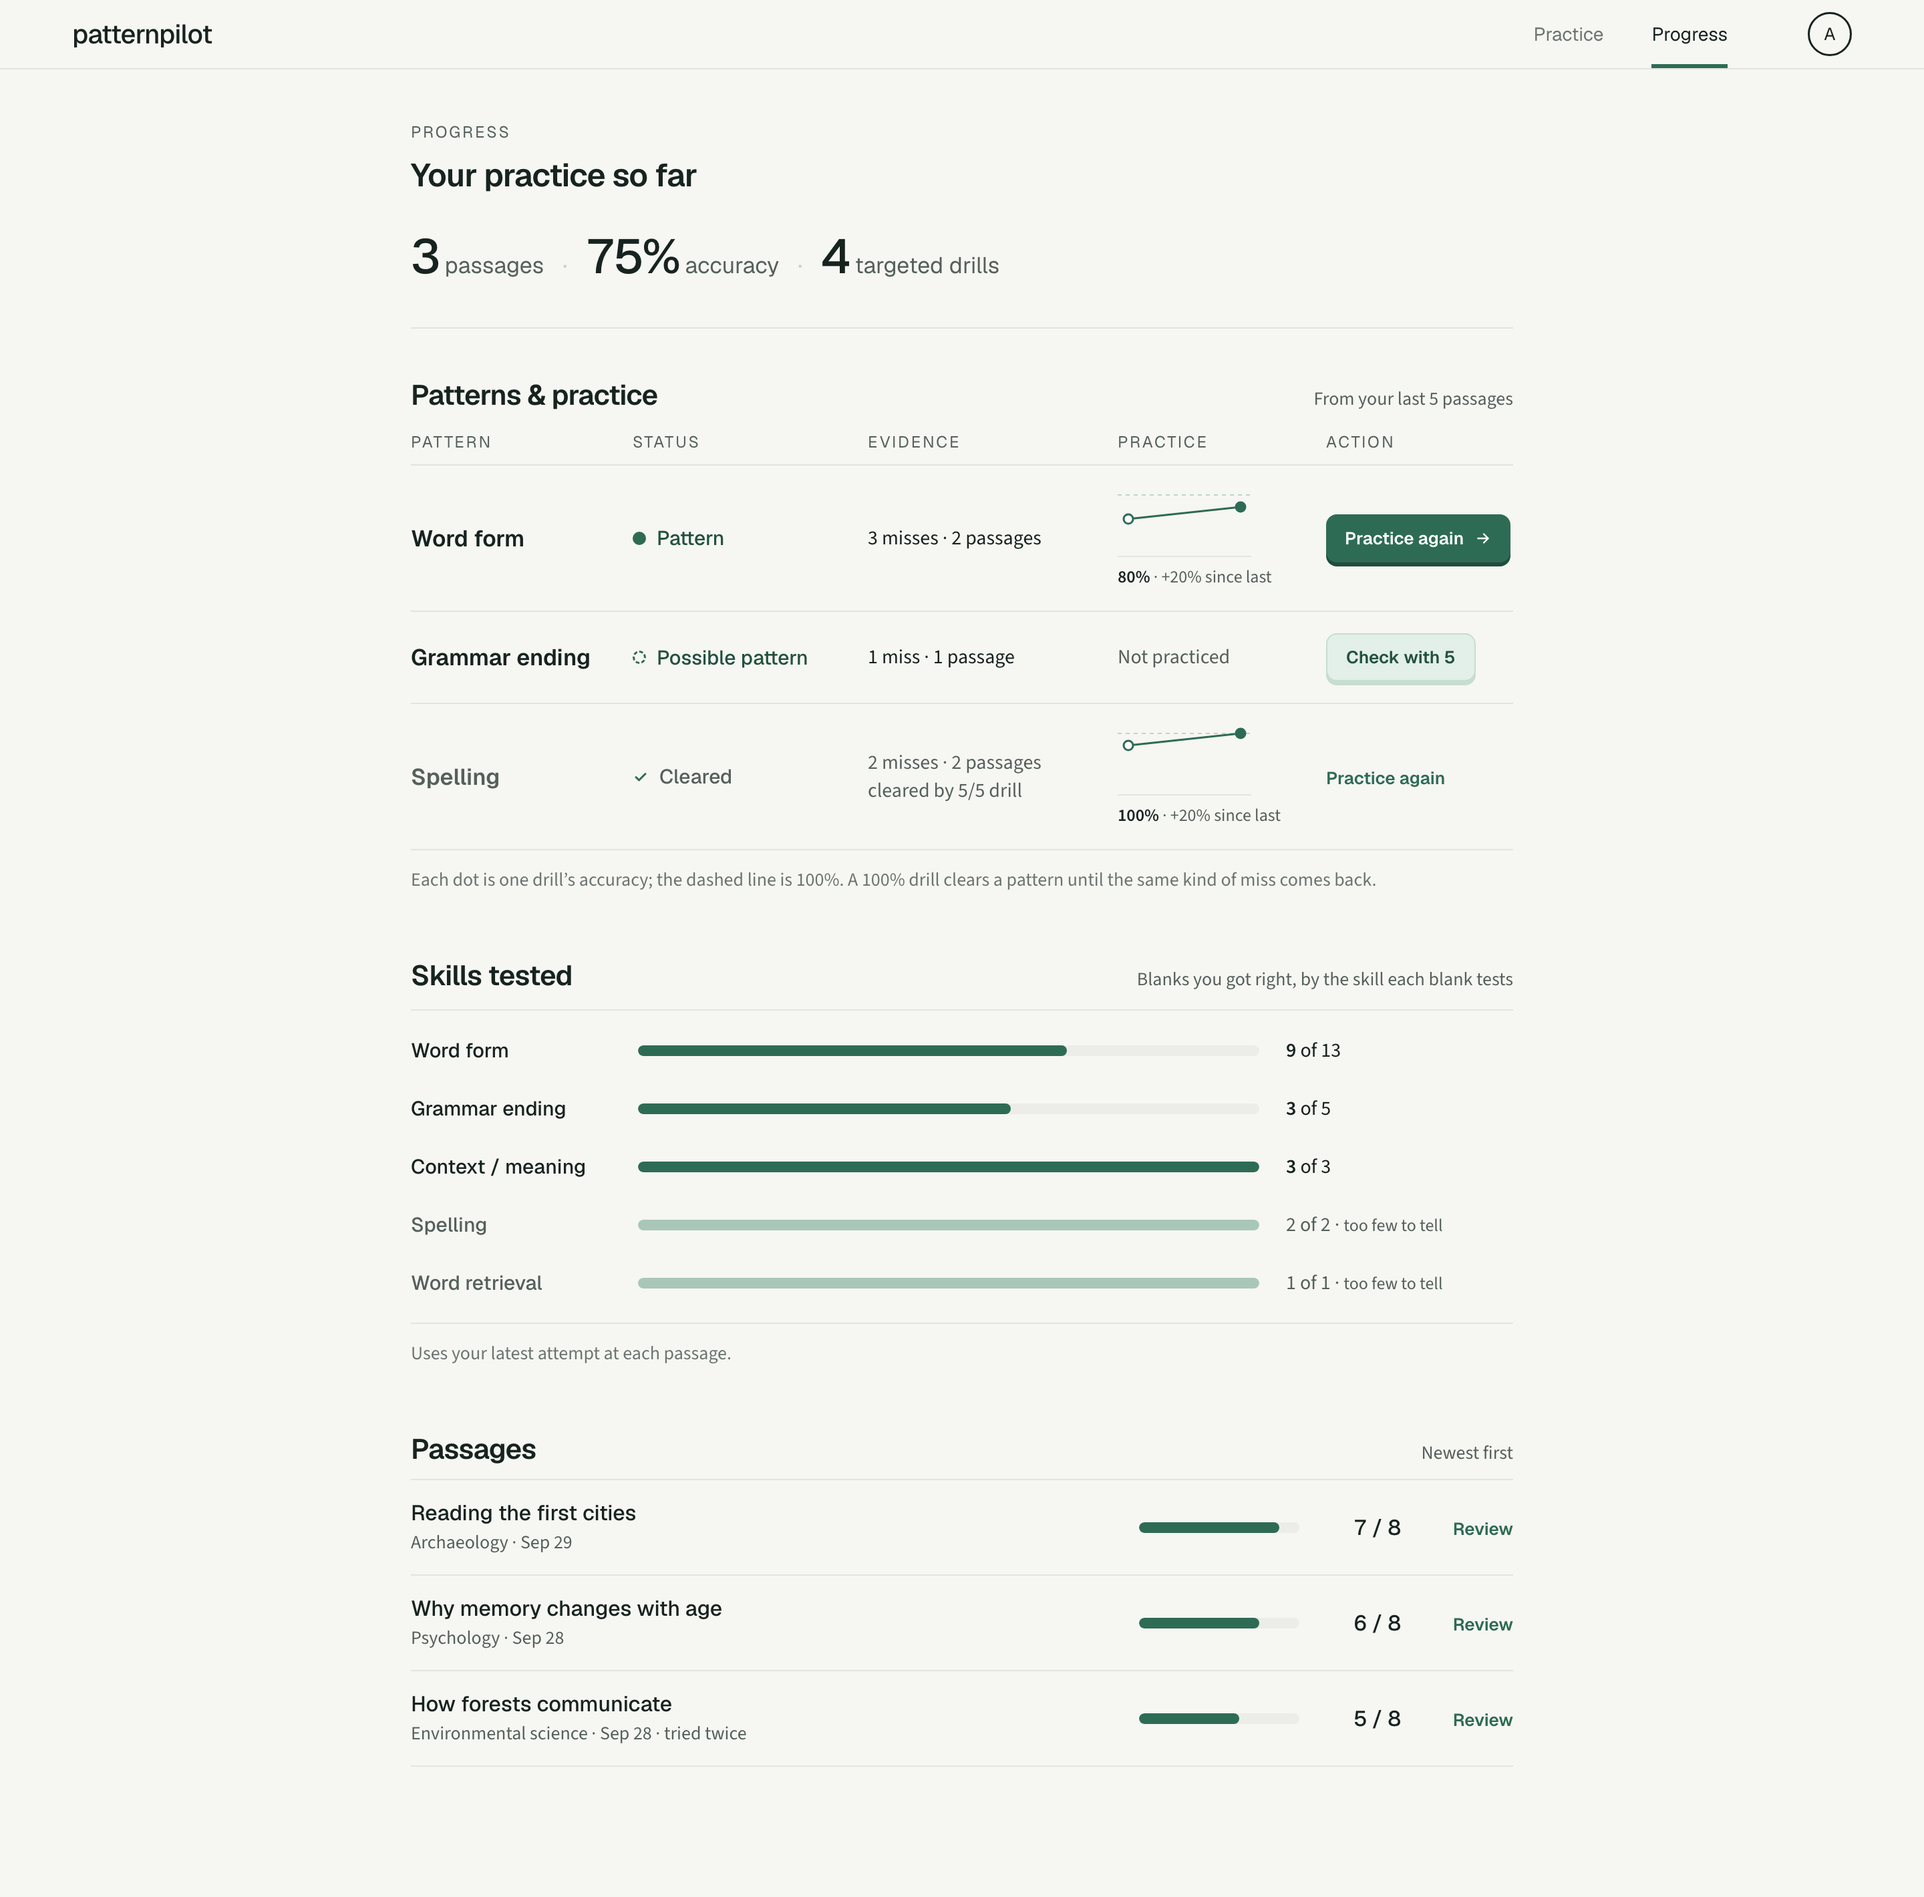
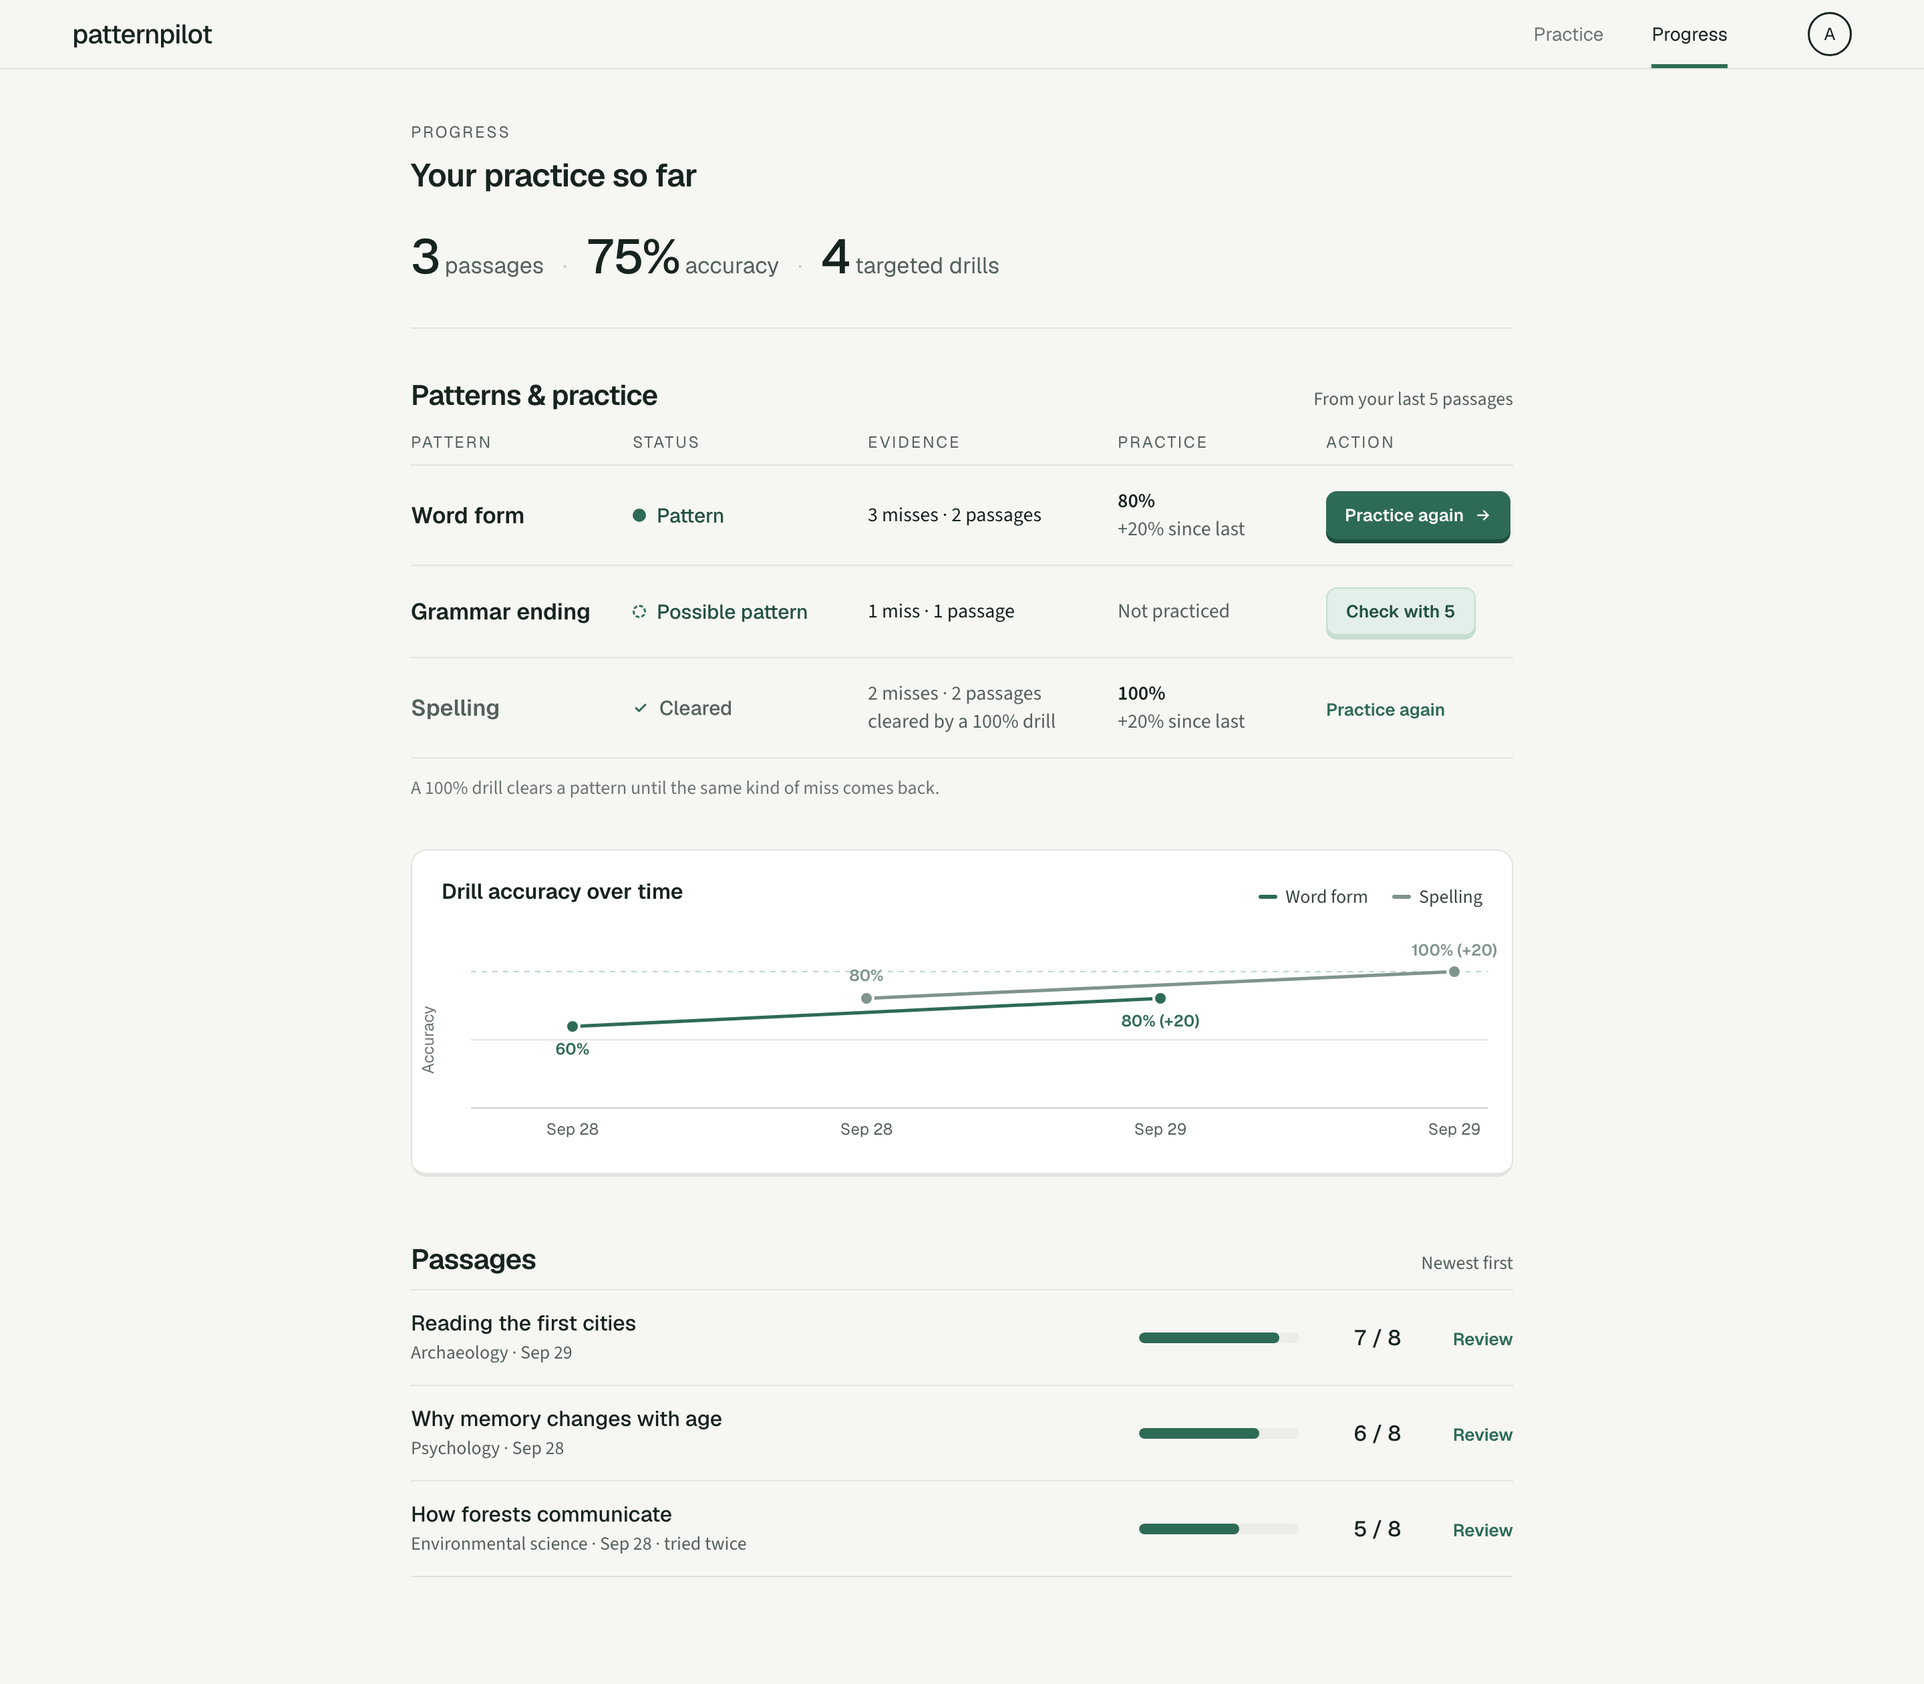
docs: Progress uses one drill-accuracy chart; drop Skills tested

diff --git a/docs/product.md b/docs/product.md
@@ -191,17 +191,18 @@ Check the rules in the order shown. The first match wins.
 - `WORD FORM PRACTICE` label, the serif sentence, and inline feedback (✓ *Correct* plus an explanation) separated by a thin line. Full-width green **Next** button.
 
 **4. Progress** (see `docs/design/08-progress.png`)
-Order: summary → Patterns & practice → Skills tested → Passages. Calm and editorial: section headings with thin rules, no KPI cards, no passage chart. Never TOEFL-scaled. Everything uses the **latest attempt per distinct passage**, as in pattern detection.
+Order: summary → Patterns & practice (table, then one drill-accuracy chart) → Passages. Calm and editorial: section headings with thin rules, no KPI cards, no passage chart. Never TOEFL-scaled. Passage figures use the **latest attempt per distinct passage**, as in pattern detection.
 - **Summary line:** `3 passages · 75% accuracy · 4 targeted drills` (large numbers, small words, one line). Accuracy = correct blanks ÷ all blanks, latest attempt per passage, rounded to a whole percent.
 - **Patterns & practice** (the learner's *mistake types*, last 5 passages). Columns: *Pattern · Status · Evidence · Practice · Action*. One row per category that has at least one miss in the window, or that was cleared by a drill. Order: Pattern, then Possible pattern, then Cleared; within a status, by miss count, then most recent.
-  - **Status:** plain text labels, not badges, so they don't look clickable (15px). *Pattern* (2+ active misses; filled green dot) · *Possible pattern* (1 active miss; dashed empty dot, as in the seen-dots) · **Cleared** (a 5/5 drill cleared its misses and no new miss has come since; green check, gray text). No other labels.
-  - **Evidence:** `3 misses · 2 passages`; possible: `1 miss · 1 passage`; cleared: `2 misses · 2 passages / cleared by 5/5 drill`.
-  - **Practice:** a small line chart of every drill's accuracy for that pattern, in order (100×56px, y = 0–100%, dashed line at 100%; hollow dots, the latest one filled). Under it: latest accuracy in bold and the change from the previous drill, e.g. **80%** · +20% since last. One drill = a single dot and no change text. Never drilled = *Not practiced*, no chart. Footnote: *"Each dot is one drill's accuracy; the dashed line is 100%. A 100% drill clears a pattern until the same kind of miss comes back."*
+  - **Status:** plain text labels, not badges, so they don't look clickable (15px). *Pattern* (2+ active misses; filled green dot) · *Possible pattern* (1 active miss; dashed empty dot, as in the seen-dots) · **Cleared** (a 100% drill cleared its misses and no new miss has come since; green check, gray text). No other labels.
+  - **Evidence:** `3 misses · 2 passages`; possible: `1 miss · 1 passage`; cleared: `2 misses · 2 passages / cleared by a 100% drill`.
+  - **Practice:** latest drill accuracy in bold and the change from the previous drill, e.g. **80%** / +20% since last (no change line after a single drill). Never drilled = *Not practiced*.
   - **Action:** Pattern = primary **Practice again →** (or **Practice →** if never drilled); Possible = retry-style **Check with 5**; Cleared = text link *Practice again*. Only one primary button on the page.
-- **Skills tested** (the *skills the blanks test*, from each blank's `errorCategory`; kept separate from mistake types on purpose). One row per skill: name, a thin green bar, `9 of 13`. Sorted by number of blanks. A skill with fewer than 3 blanks gets a pale bar and *"too few to tell"*. No percentages.
+  - Footnote: *"A 100% drill clears a pattern until the same kind of miss comes back."*
+- **Drill accuracy over time:** one white card under the table (12px radius, 3px bottom edge, 36px above it). Title plus a legend; one line per pattern that has been drilled (main pattern in green `#2E6B55`, others in gray-green `#7F948A`); x = drill date in order, y = accuracy 0–100% with a dashed line at 100%; each dot labelled with its % and the change, e.g. `80% (+20)`, placed so labels never sit on a line. Hidden until at least one drill exists. This is the only skill-accuracy view on the page; the separate "Skills tested" section was dropped (see §10).
 - **Passages:** newest first; title, `topic · date` (plus `tried twice` when retried), a small score bar, `7 / 8`, and a **Review** link to that passage's results.
 - **Empty state** (no passages yet): one line, *"Finish a passage to see your patterns here."*, and a **Start practice** button.
-- **Data needed (browser storage, v0.2):** each attempt also stores its blanks' tested skill and correct/incorrect (for Skills tested); a drill log `{category, score, total, timestamp}` (for drill counts, latest result and Cleared).
+- **Data needed (browser storage, v0.2):** a drill log `{category, score, total, timestamp}` (for drill counts, the chart, latest result and Cleared).
 
 ## 8. Payments (after v0.2)
 
